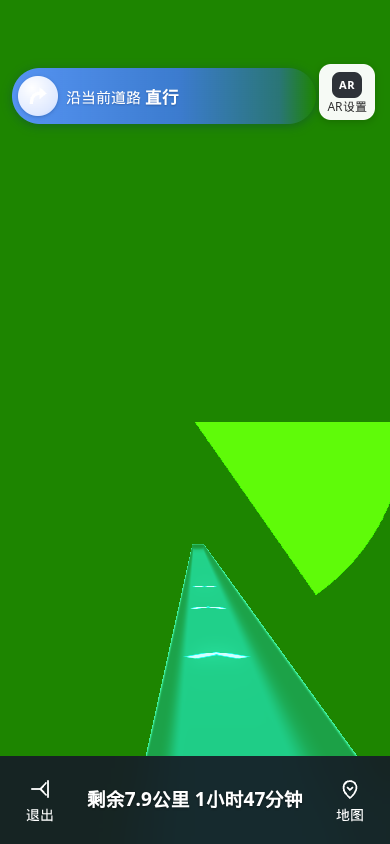
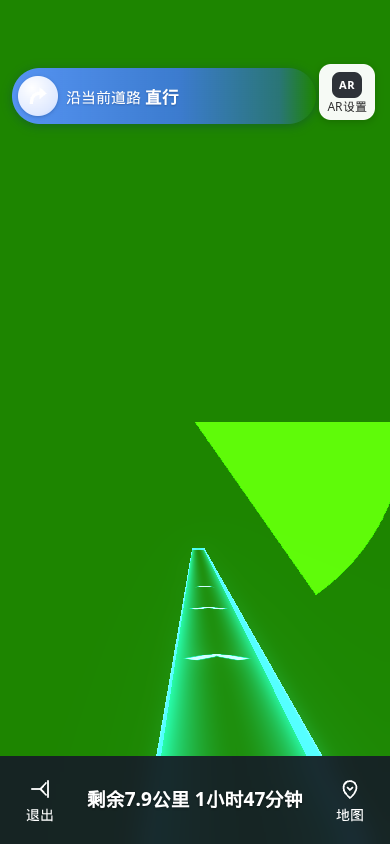
redo7: fade the band toward the center and give it a thick lip
The floor is brightest at both edges and nearly clear in the middle, and
the near end is a 0.16 m slab so the front and side faces read as thickness.

Changed region(s): [[0.3692, 0.6469, 0.9231, 0.8934]]

diff --git a/src/route.ts b/src/route.ts
@@ -263,9 +263,13 @@ export function buildRailGeometry(
 }
 
 /**
- * 浅槽光通道：平底 + 两侧圆角升起的矮墙（半管 / 圆角 U），末端用向前鼓出的圆弧封口。
+ * 有厚度的光带：顶面是横向渐变的薄板，两侧和近端是竖直的端面。
+ * 板厚约 0.16 米（行走尺度），透视自然变薄。顶缘仍略微抬起，给细亮边留位置。
  * uv.x 沿程 0→1（弧盖在最末端），uv.y 0 左沿 → 1 右沿。aRim 在墙顶缘为 1。
+ * 侧面、近端端面用独立顶点，法线保持水平，着色时比顶面中心更亮。
  */
+export const CHANNEL_SLAB_THICKNESS = 0.16
+
 export function buildChannelGeometry(geo: RouteGeometry, halfWidth: number, height: number): THREE.BufferGeometry {
   const cols = 17
   const positions: number[] = []
@@ -275,6 +279,8 @@ export function buildChannelGeometry(geo: RouteGeometry, halfWidth: number, heig
   const indices: number[] = []
   const n = geo.points.length
   const up = new THREE.Vector3(0, 1, 0)
+  const slab = CHANNEL_SLAB_THICKNESS
+  const lip = Math.max(slab, Math.min(height, slab + 0.04))
 
   const push = (x: number, y: number, z: number, u: number, v: number, rim: number, wall: number) => {
     positions.push(x, y, z)
@@ -284,24 +290,34 @@ export function buildChannelGeometry(geo: RouteGeometry, halfWidth: number, heig
     return (positions.length / 3) - 1
   }
 
-  // 平底占中间约 70%，外侧用四分之一圆角立起，顶缘接近竖直，墙面在屏幕上是一条带子而不是一条线。
+  // 顶面大部分在板厚高度，最外缘再抬一点，方便压一条细亮边。
   const sampleProfile = (t: number) => {
     const x = t * 2 - 1
     const ax = Math.abs(x)
-    const u = THREE.MathUtils.clamp((ax - 0.70) / 0.30, 0, 1)
-    const y = height * (1 - Math.cos(u * Math.PI / 2))
+    const u = THREE.MathUtils.clamp((ax - 0.82) / 0.18, 0, 1)
+    const y = slab + (lip - slab) * (1 - Math.cos(u * Math.PI / 2))
     const rim = ax > 0.96 ? (ax - 0.96) / 0.04 : 0
-    return { lat: x * halfWidth, y, rim, wall: u }
+    return { lat: x * halfWidth, y, rim, wall: ax }
   }
+
+  type Edge = { x: number; y: number; z: number; u: number }
+  const leftEdge: Edge[] = []
+  const rightEdge: Edge[] = []
 
   const rowAt = (origin: THREE.Vector3, side: THREE.Vector3, uAlong: number) => {
     const row: number[] = []
+    let left: Edge | undefined
+    let right: Edge | undefined
     for (let j = 0; j < cols; j++) {
       const t = j / (cols - 1)
       const pr = sampleProfile(t)
       const p = origin.clone().addScaledVector(side, pr.lat)
       row.push(push(p.x, pr.y, p.z, uAlong, t, pr.rim, pr.wall))
+      if (j === 0) left = { x: p.x, y: pr.y, z: p.z, u: uAlong }
+      if (j === cols - 1) right = { x: p.x, y: pr.y, z: p.z, u: uAlong }
     }
+    if (left) leftEdge.push(left)
+    if (right) rightEdge.push(right)
     return row
   }
 
@@ -319,27 +335,63 @@ export function buildChannelGeometry(geo: RouteGeometry, halfWidth: number, heig
     if (i > 0) linkRows(rows[i - 1], rows[i])
   }
 
-  // 末端圆弧盖：左顶缘绕向前方半周接到右顶缘，槽底补成半圆。
+  // 末端圆弧盖：一侧顶缘绕向前方半周接到另一侧，顶面中心保持透。
   const end = geo.points[n - 1]
   const side = geo.sides[n - 1].clone()
   const forward = new THREE.Vector3().crossVectors(side, up).normalize()
   const capSegs = 16
   const prevRim: number[] = []
+  const capEdge: Edge[] = []
+  if (leftEdge.length) capEdge.push(leftEdge[leftEdge.length - 1])
   for (let k = 0; k <= capSegs; k++) {
     const ang = (Math.PI * k) / capSegs
     const dir = side.clone().multiplyScalar(-Math.cos(ang)).addScaledVector(forward, Math.sin(ang))
     const u = 0.9 + 0.1 * (k / capSegs)
     const row: number[] = []
+    let outer: Edge | undefined
     for (let j = 0; j < cols; j++) {
       const radialT = j / (cols - 1)
-      const uRise = THREE.MathUtils.clamp((radialT - 0.70) / 0.30, 0, 1)
-      const y = height * (1 - Math.cos(uRise * Math.PI / 2))
-      const rim = radialT > 0.96 ? (radialT - 0.96) / 0.04 : 0
+      const pr = sampleProfile(radialT)
       const p = end.clone().addScaledVector(dir, radialT * halfWidth)
-      row.push(push(p.x, y, p.z, u, radialT, rim, uRise))
+      row.push(push(p.x, pr.y, p.z, u, radialT, pr.rim, pr.wall))
+      if (j === cols - 1) outer = { x: p.x, y: pr.y, z: p.z, u }
     }
     if (k > 0) linkRows(prevRim, row)
     for (let j = 0; j < row.length; j++) prevRim[j] = row[j]
+    if (outer && k > 0 && k < capSegs) capEdge.push(outer)
+  }
+  if (rightEdge.length) capEdge.push(rightEdge[rightEdge.length - 1])
+
+  // 左右侧面 + 弧盖外圈：从地面立到顶缘。高度就是板厚，近处看起来是一条厚边。
+  const skirt = (edge: Edge[], vEdge: number) => {
+    for (let i = 0; i < edge.length - 1; i++) {
+      const a = edge[i]
+      const b = edge[i + 1]
+      const a0 = push(a.x, 0, a.z, a.u, vEdge, 1, 1)
+      const a1 = push(a.x, a.y, a.z, a.u, vEdge, 1, 1)
+      const b0 = push(b.x, 0, b.z, b.u, vEdge, 1, 1)
+      const b1 = push(b.x, b.y, b.z, b.u, vEdge, 1, 1)
+      indices.push(a0, b0, a1, a1, b0, b1)
+    }
+  }
+  skirt(leftEdge, 0)
+  skirt(rightEdge, 1)
+  skirt(capEdge, 1)
+
+  // 近端正面：整宽的竖切面，中心高度约等于板厚，两侧跟着顶缘。
+  for (let j = 0; j < cols - 1; j++) {
+    const t0 = j / (cols - 1)
+    const t1 = (j + 1) / (cols - 1)
+    const p0 = sampleProfile(t0)
+    const p1 = sampleProfile(t1)
+    const origin = geo.points[0]
+    const s0 = origin.clone().addScaledVector(geo.sides[0], p0.lat)
+    const s1 = origin.clone().addScaledVector(geo.sides[0], p1.lat)
+    const a0 = push(s0.x, 0, s0.z, 0, t0, 0, 1)
+    const a1 = push(s0.x, p0.y, s0.z, 0, t0, p0.rim, 1)
+    const b0 = push(s1.x, 0, s1.z, 0, t1, 0, 1)
+    const b1 = push(s1.x, p1.y, s1.z, 0, t1, p1.rim, 1)
+    indices.push(a0, a1, b0, b0, a1, b1)
   }
 
   const g = new THREE.BufferGeometry()

diff --git a/src/shader.ts b/src/shader.ts
@@ -52,17 +52,22 @@ const frag = /* glsl */ `
   varying float vWall;
 
   void main() {
-    // 几何透视负责变窄，这里只在贴着镜头时淡入，远端仍保持可见
+    // 沿程只在贴着镜头时淡入，远端仍保持可见。横向另算，不在这里拉平。
     float fade = mix(1.0, 0.78, smoothstep(0.72, 1.0, vUv.x));
     fade *= smoothstep(0.35, 1.8, vDist);
     vec3 N = normalize(vNormal);
     vec3 V = normalize(cameraPosition - vWorldPos);
     float fres = pow(1.0 - clamp(abs(dot(N, V)), 0.0, 1.0), 1.45);
-    // 槽底很淡，墙的内侧面更亮，通道才像一条槽
-    float floorA = 0.16 * uFloorGain * fade * uOpacity * (0.9 + 0.1 * fres);
-    // 墙比上一版大约暗 40%，和槽底连成一块柔光，而不是两根发亮的轨
-    float wallA = 0.12 * fade * uOpacity * (0.7 + 0.4 * fres);
-    float body = mix(floorA, wallA, smoothstep(0.12, 0.8, vWall));
+    // 横向 u：0 在中线，1 在两侧。中心几乎全透，两边平滑变实。
+    float lat = abs(vUv.y * 2.0 - 1.0);
+    float edge = pow(clamp(lat, 0.0, 1.0), 1.9);
+    float topA = mix(0.04, 0.7, edge);
+    // 侧面和近端切面法线接近水平，整面按边缘的亮度来，比顶面中心亮
+    float sideK = 1.0 - smoothstep(0.22, 0.78, abs(N.y));
+    float sideA = mix(0.58, 0.72, edge);
+    float body = mix(topA, sideA, sideK);
+    body *= fade * uOpacity * mix(1.0, uFloorGain, edge);
+    body *= (0.92 + 0.08 * fres);
     vec3 col = mix(uColor, uFarColor, clamp(vUv.x * 0.35, 0.0, 1.0));
 
     float fw = max(fwidth(vRim), 1e-4);
@@ -180,7 +185,11 @@ export function createFloorTintMaterial(color = '#40D8FF', amount = 0): THREE.Sh
       varying vec2 vUv;
       void main() {
         if (uAmount < 0.001) discard;
-        gl_FragColor = vec4(uColor * uAmount, uAmount);
+        // 衬底也跟着横向变：中心不超过整段的约三分之一，避免把中间染实
+        float lat = abs(vUv.y * 2.0 - 1.0);
+        float edge = pow(clamp(lat, 0.0, 1.0), 1.9);
+        float amt = uAmount * mix(0.28, 1.0, edge);
+        gl_FragColor = vec4(uColor * amt, amt);
       }
     `,
     transparent: true,

diff --git a/tests/route.test.ts b/tests/route.test.ts
@@ -102,21 +102,32 @@ describe('route geometry', () => {
     expect(maxY).toBeGreaterThan(base * 1.25)
   })
 
-  it('光通道是圆角浅槽，末端弧盖鼓出路线终点', () => {
+  it('光通道是有厚度的板，近端有立面，末端弧盖鼓出路线终点', () => {
     const g = buildRouteGeometry(normalizeRoute([[0, 0], [0, -10], [0, -20]]), 4)
     const geo = buildChannelGeometry(g, 0.9, 0.55)
     const pos = geo.getAttribute('position') as THREE.BufferAttribute
     let maxY = 0
     let minY = 99
     let ahead = false
+    let frontLow = false
+    let frontHigh = false
     const endZ = g.points[g.points.length - 1].z
+    const startZ = g.points[0].z
     for (let i = 0; i < pos.count; i++) {
-      maxY = Math.max(maxY, pos.getY(i))
-      minY = Math.min(minY, pos.getY(i))
+      const y = pos.getY(i)
+      maxY = Math.max(maxY, y)
+      minY = Math.min(minY, y)
       if (pos.getZ(i) < endZ - 0.25) ahead = true
+      if (Math.abs(pos.getZ(i) - startZ) < 0.05 && Math.abs(pos.getX(i)) < 0.15) {
+        if (y < 0.02) frontLow = true
+        if (y > 0.12 && y < 0.22) frontHigh = true
+      }
     }
-    expect(maxY).toBeCloseTo(0.55, 2)
+    expect(maxY).toBeGreaterThan(0.12)
+    expect(maxY).toBeLessThanOrEqual(0.22)
     expect(minY).toBeCloseTo(0, 2)
+    expect(frontLow).toBe(true)
+    expect(frontHigh).toBe(true)
     expect(ahead).toBe(true)
     expect(geo.getAttribute('aRim')).toBeTruthy()
   })

diff --git a/demo/main.ts b/demo/main.ts
@@ -152,7 +152,7 @@ const HOSPITAL = {
   aspect: 1400 / 1867,
   width: 0.85,
   height: 0.48,
-  tint: 0.13,
+  tint: 0.05,
   straight: [[0, 0], [0, -12], [0, -24], [0, -36], [0, -48]] as Array<[number, number]>,
   // 先直行到走廊尽头附近，再以半径 1.8m 只向右弯一次，不先往左甩
   turn: ([[0, 0], [0, -12], [0, -24], [0, -30]] as Array<[number, number]>).concat(rightArc(0, -30, 1.8, 80, 10)),
@@ -187,8 +187,8 @@ function applyScene(id: SceneId) {
     navi.params.railHeight = 0.5
     navi.theme.primary = '#40D8FF'
     navi.theme.highlight = '#7AEEFF'
-    navi.setFloorFill(2.4)
-    navi.setFloorTint(0.16)
+    navi.setFloorFill(1)
+    navi.setFloorTint(0)
     navi.setRoute(bend ? turnRoute : straightRoute)
     navi.setTurnSign(false)
     navi.setBanner(bend
